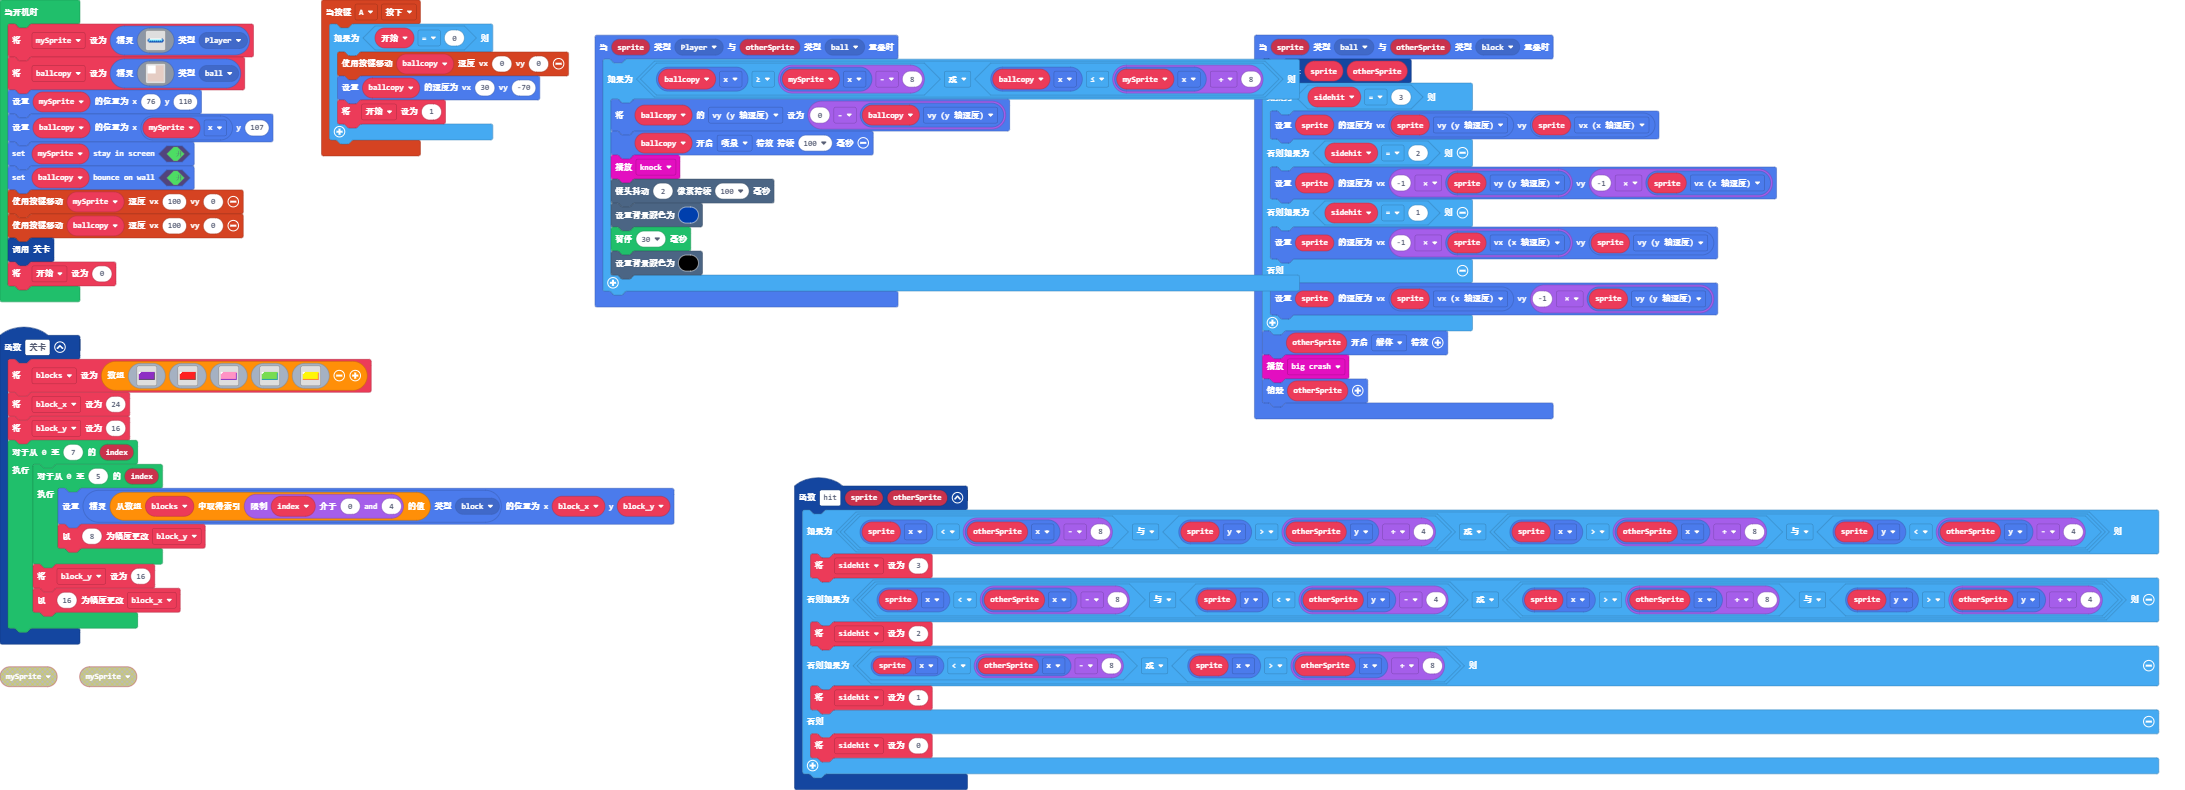
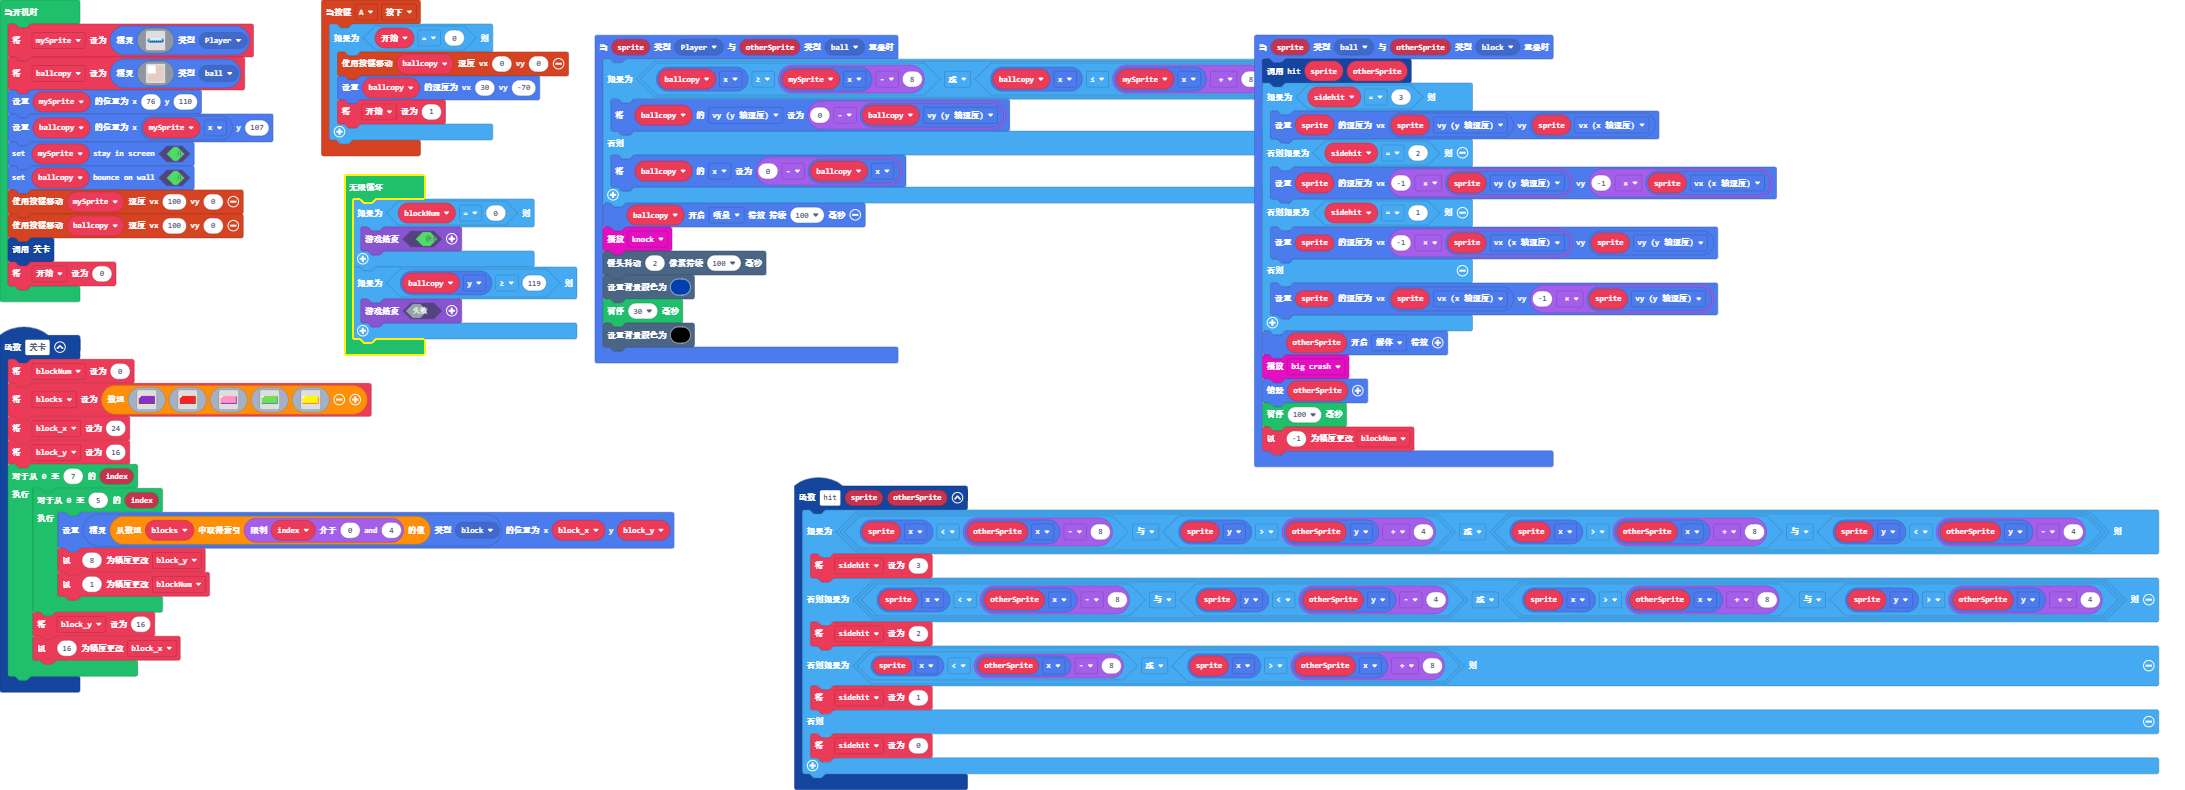
更新 main.blocks, main.ts

Changed region(s): [[0.0, 0.1519, 0.5913, 0.881], [0.5602, 0.4861, 0.7158, 0.6076], [0.5602, 0.0608, 0.5913, 0.1215]]

diff --git a/main.ts b/main.ts
@@ -21,6 +21,7 @@ function hit (sprite: Sprite, otherSprite: Sprite) {
     }
 }
 function 关卡 () {
+    blockNum = 0
     blocks = [assets.image`myImage3`, assets.image`myImage2`, assets.image`myImage0`, assets.image`myImage`, assets.image`myImage1`]
     block_x = 24
     block_y = 16
@@ -28,6 +29,7 @@ function 关卡 () {
         for (let index = 0; index <= 5; index++) {
             sprites.create(blocks[Math.constrain(index, 0, 4)], SpriteKind.block).setPosition(block_x, block_y)
             block_y += 8
+            blockNum += 1
         }
         block_y = 16
         block_x += 16
@@ -47,21 +49,26 @@ sprites.onOverlap(SpriteKind.ball, SpriteKind.block, function (sprite, otherSpri
     otherSprite.startEffect(effects.disintegrate)
     music.bigCrash.play()
     otherSprite.destroy()
+    pause(100)
+    blockNum += -1
 })
 sprites.onOverlap(SpriteKind.Player, SpriteKind.ball, function (sprite, otherSprite) {
     if (ballcopy.x >= mySprite.x - 8 || ballcopy.x <= mySprite.x + 8) {
         ballcopy.vy = 0 - ballcopy.vy
-        ballcopy.startEffect(effects.fountain, 100)
-        music.knock.play()
-        scene.cameraShake(2, 100)
-        scene.setBackgroundColor(8)
-        pause(30)
-        scene.setBackgroundColor(15)
+    } else {
+        ballcopy.x = 0 - ballcopy.x
     }
+    ballcopy.startEffect(effects.fountain, 100)
+    music.knock.play()
+    scene.cameraShake(2, 100)
+    scene.setBackgroundColor(8)
+    pause(30)
+    scene.setBackgroundColor(15)
 })
 let block_y = 0
 let block_x = 0
 let blocks: Image[] = []
+let blockNum = 0
 let sidehit = 0
 let 开始 = 0
 let ballcopy: Sprite = null
@@ -88,3 +95,11 @@ controller.moveSprite(mySprite, 100, 0)
 controller.moveSprite(ballcopy, 100, 0)
 关卡()
 开始 = 0
+forever(function () {
+    if (blockNum == 0) {
+        game.over(true)
+    }
+    if (ballcopy.y >= 119) {
+        game.over(false)
+    }
+})
